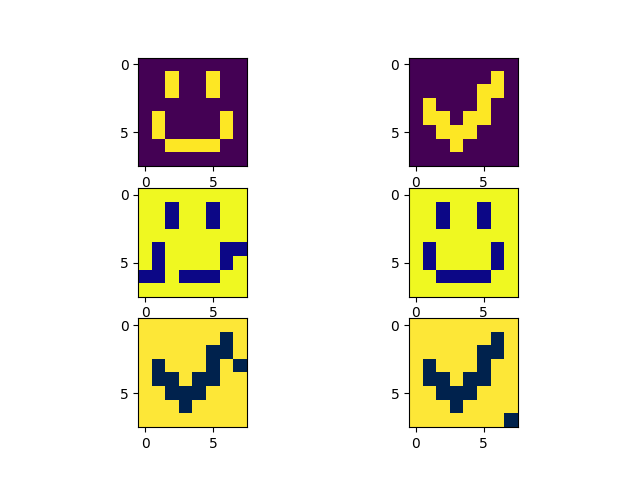
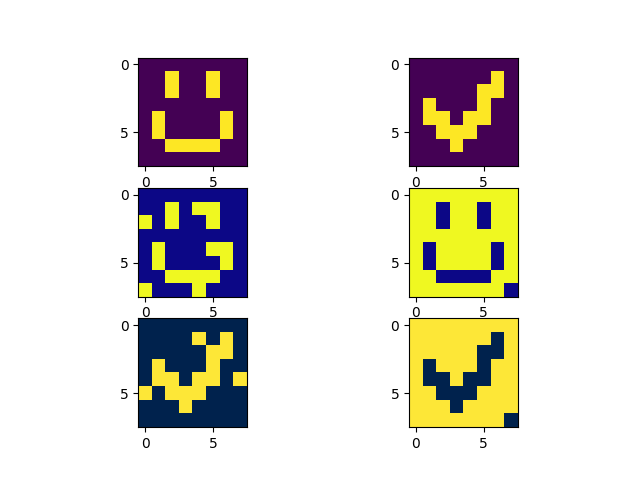
Working hopfield network with new bitfiles

Changed region(s): [[0.2188, 0.6562, 0.4062, 0.9062], [0.2188, 0.375, 0.4062, 0.625], [0.7812, 0.5938, 0.8125, 0.625]]

diff --git a/hopfield/hopfield.py b/hopfield/hopfield.py
@@ -29,16 +29,15 @@ check  = np.array([[-1, -1, -1, -1, -1, -1, -1, -1],
                    [-1, -1, -1,  1, -1, -1, -1, -1],
                    [-1, -1, -1, -1, -1, -1, -1, -1]])
 
-
 # Make a noisy version of smiley
-noise = np.random.randint(20, size=(8,8))
-smiley_noise = [[s if n == 0 else -s for s, n in zip(sm, no)] for sm, no in zip(smiley, noise)]
+noise = np.random.randint(15, size=(8,8))
+smiley_noise = [[-s if n == 0 else s for s, n in zip(sm, no)] for sm, no in zip(smiley, noise)]
 smiley_noise = np.array(smiley_noise)
 smiley_noise_1d = smiley_noise.reshape(64)
 
 # Make a noisy version of check
-noise = np.random.randint(20, size=(8,8))
-check_noise = [[c if n == 0 else -c for c, n in zip(ch, no)] for ch, no in zip(check, noise)]
+noise = np.random.randint(15, size=(8,8))
+check_noise = [[-c if n == 0 else c for c, n in zip(ch, no)] for ch, no in zip(check, noise)]
 check_noise = np.array(check_noise)
 check_noise_1d = check_noise.reshape(64)
 
